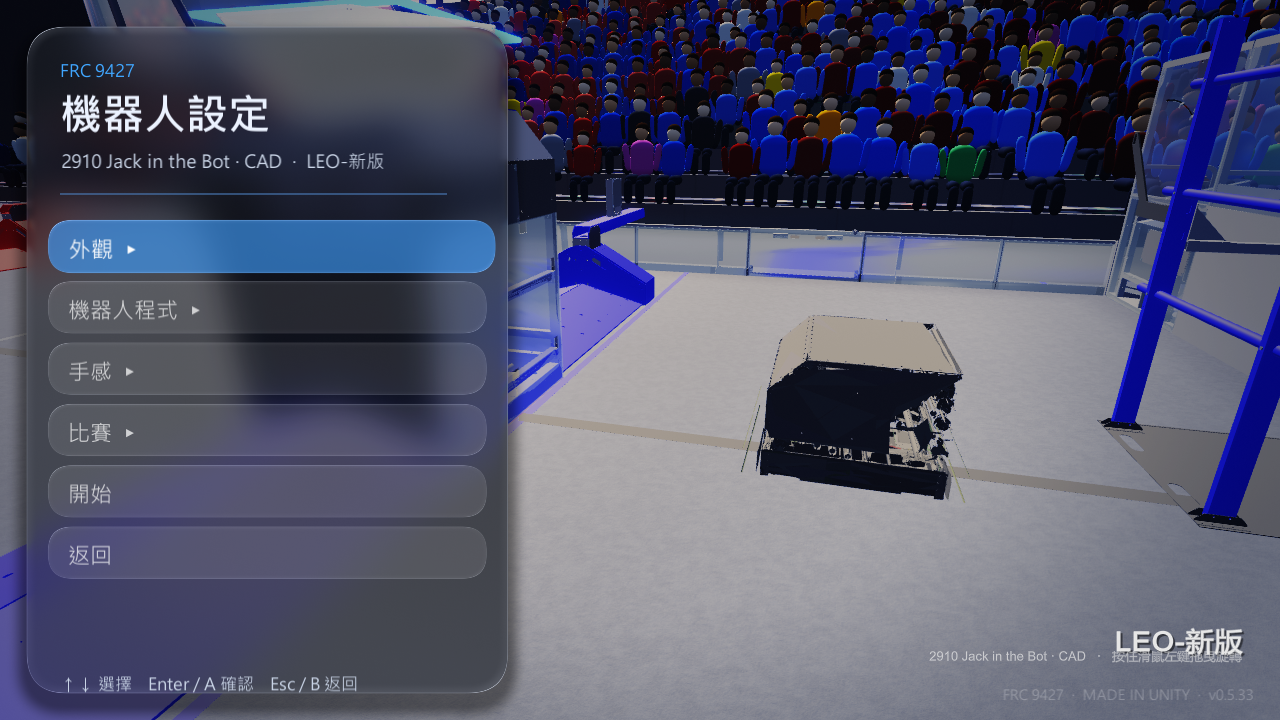
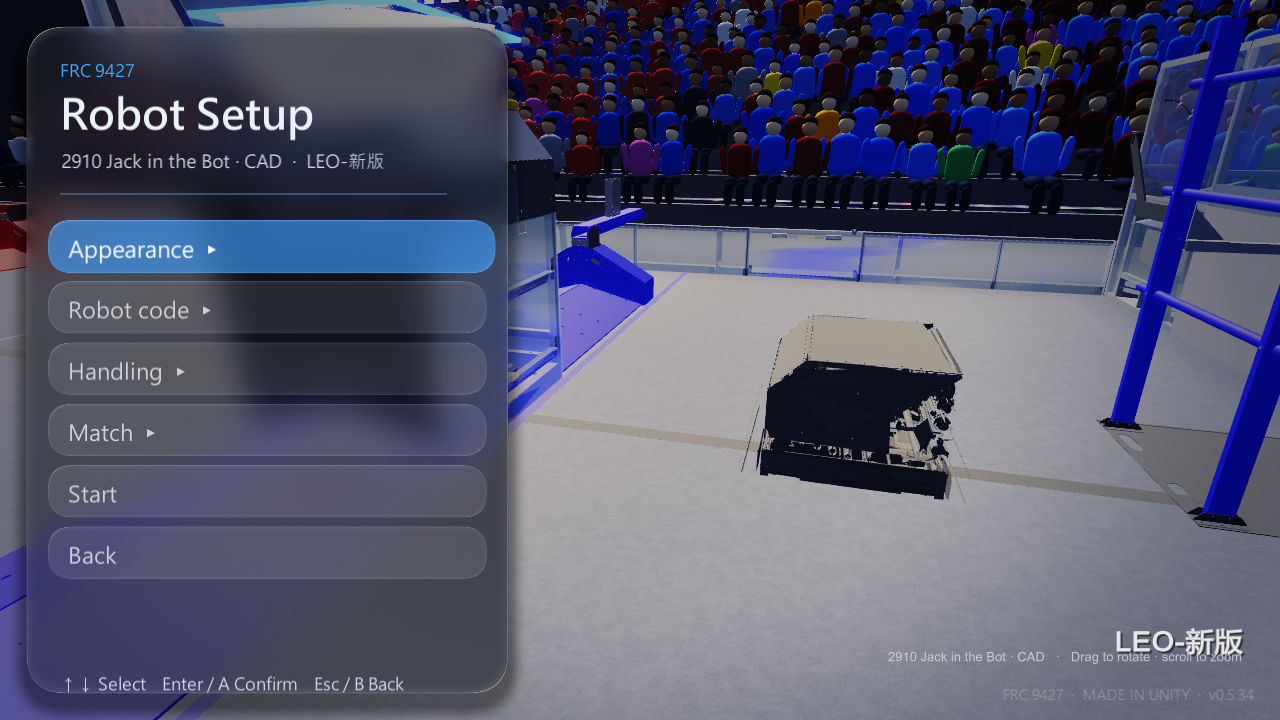
v0.5.34 preview zoom

diff --git a/Assets/Scripts/Sim/CameraRig.cs b/Assets/Scripts/Sim/CameraRig.cs
@@ -1,4 +1,4 @@
-using UnityEngine;
+using UnityEngine;
 
 namespace FrcSim
 {
@@ -83,7 +83,7 @@ namespace FrcSim
                     // 機器人預覽:貼近車子慢慢繞一圈;注視點往旁邊偏,讓車出現在左側選單面板的右邊
                     Vector3 pc = PreviewRobot.Center + Vector3.up * 0.35f;
                     float ang = Mathf.Deg2Rad * (105f + PreviewRobot.DragDeg + Mathf.Sin(Time.unscaledTime * 0.35f) * 25f);   // 站在 +z 側看,背景是對面看台(不是 HUB)
-                    Vector3 pp = pc + new Vector3(Mathf.Cos(ang) * 2.7f, 1.0f, Mathf.Sin(ang) * 2.7f);
+                    Vector3 pp = pc + new Vector3(Mathf.Cos(ang) * PreviewRobot.Dist, 1.0f * PreviewRobot.Dist / 2.7f, Mathf.Sin(ang) * PreviewRobot.Dist);
                     Vector3 fwd = (pc - pp); Vector3 right = Vector3.Cross(Vector3.up, fwd).normalized;
                     Vector3 look = pc - right * 0.95f;
                     transform.position = Vector3.Lerp(transform.position, pp, 1f - Mathf.Exp(-4f * Time.unscaledDeltaTime));
@@ -203,3 +203,4 @@ namespace FrcSim
         }
     }
 }
+

diff --git a/Assets/Scripts/Sim/PreviewRobot.cs b/Assets/Scripts/Sim/PreviewRobot.cs
@@ -1,4 +1,4 @@
-using UnityEngine;
+using UnityEngine;
 
 namespace FrcSim
 {
@@ -20,6 +20,7 @@ namespace FrcSim
             var go = new GameObject("PreviewRobot"); I = go.AddComponent<PreviewRobot>();
         }
 
+        public static float Dist = 2.7f;   // 滾輪縮放:鏡頭距離(公尺)
         public static float DragDeg;   // 滑鼠左鍵在右側空白處拖曳 = 轉動檢視角度
         GUIStyle nameSt, subSt;
         void OnGUI()
@@ -38,6 +39,7 @@ namespace FrcSim
         void Update()
         {
             if (Want && Input.GetMouseButton(0) && Input.mousePosition.x > Screen.width * 0.42f) DragDeg -= Input.GetAxis("Mouse X") * 4f;
+            if (Want) Dist = Mathf.Clamp(Dist - Input.mouseScrollDelta.y * 0.25f, 1.8f, 4.5f);
             var rig = FindFirstObjectByType<CameraRig>();
             bool menuMode = rig != null && rig.Orbit && GameSession.Drive == null;
             if (!menuMode || !Want) { Clear(); return; }

diff --git a/Assets/Scripts/UI/Loc.cs b/Assets/Scripts/UI/Loc.cs
@@ -70,7 +70,7 @@ namespace FrcSim
             { "pause.reset",   new[]{ "重置位置", "Reset Pose" } },
             { "pause.menu",    new[]{ "回到主畫面", "Main Menu" } },
             { "hint.nav",      new[]{ "↑↓ 選擇    Enter / A 確認    Esc / B 返回", "↑↓ Select    Enter / A Confirm    Esc / B Back" } },
-            { "hint.drag",     new[]{ "按住滑鼠左鍵拖曳旋轉", "Drag with left mouse to rotate" } },
+            { "hint.drag",     new[]{ "按住滑鼠左鍵拖曳旋轉・滾輪縮放", "Drag to rotate · scroll to zoom" } },
             { "splash.made",   new[]{ "MADE IN UNITY", "MADE IN UNITY" } },
         };
 
@@ -81,4 +81,5 @@ namespace FrcSim
         }
     }
 }
+
 

diff --git a/Assets/Scripts/Sim/UpdateCheck.cs b/Assets/Scripts/Sim/UpdateCheck.cs
@@ -17,7 +17,7 @@ namespace FrcSim
     //   找不到差異包(或失敗)時退回「開啟下載頁」,讓使用者手動下載完整版。
     public class UpdateCheck : MonoBehaviour
     {
-        public const string Current = "0.5.33";
+        public const string Current = "0.5.34";
         const string Repo = "frc9427liu-tech/FRC9427-SimApp";
         const string ReleasesApi = "https://api.github.com/repos/" + Repo + "/releases?per_page=30";
         public const string Page = "https://github.com/" + Repo + "/releases/latest";
@@ -235,6 +235,7 @@ Start-Process -FilePath $Exe -WorkingDirectory $Dst
 ";
     }
 }
+
 
 
 
